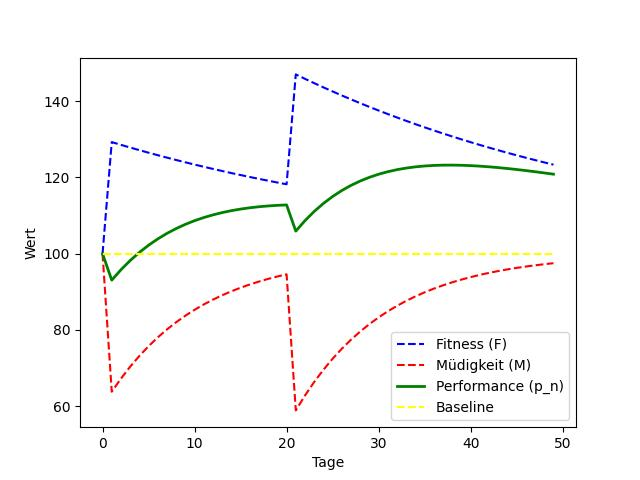
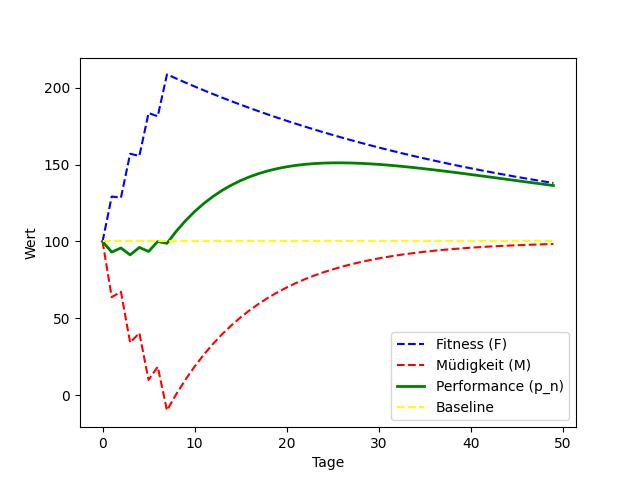
123

diff --git a/Analyse Data/tests_fitness_fatigue.py b/Analyse Data/tests_fitness_fatigue.py
@@ -12,7 +12,9 @@ n = np.arange(0, 50)
 #w = np.random.randint(0, 2, 50)
 w = np.zeros(50)
 w[0] = 1
-w[20] = 1
+w[2] = 1
+w[4] = 1
+w[6] = 1
 #print(w)
 y1_fitness = k1 * np.array([sum(w[i] * np.exp(-(n_j-i)/tau1) for i in range(n_j)) for n_j in n])
 y2_fatigue = k2 * np.array([sum(w[i] * np.exp(-(n_j-i)/tau2) for i in range(n_j)) for n_j in n])
